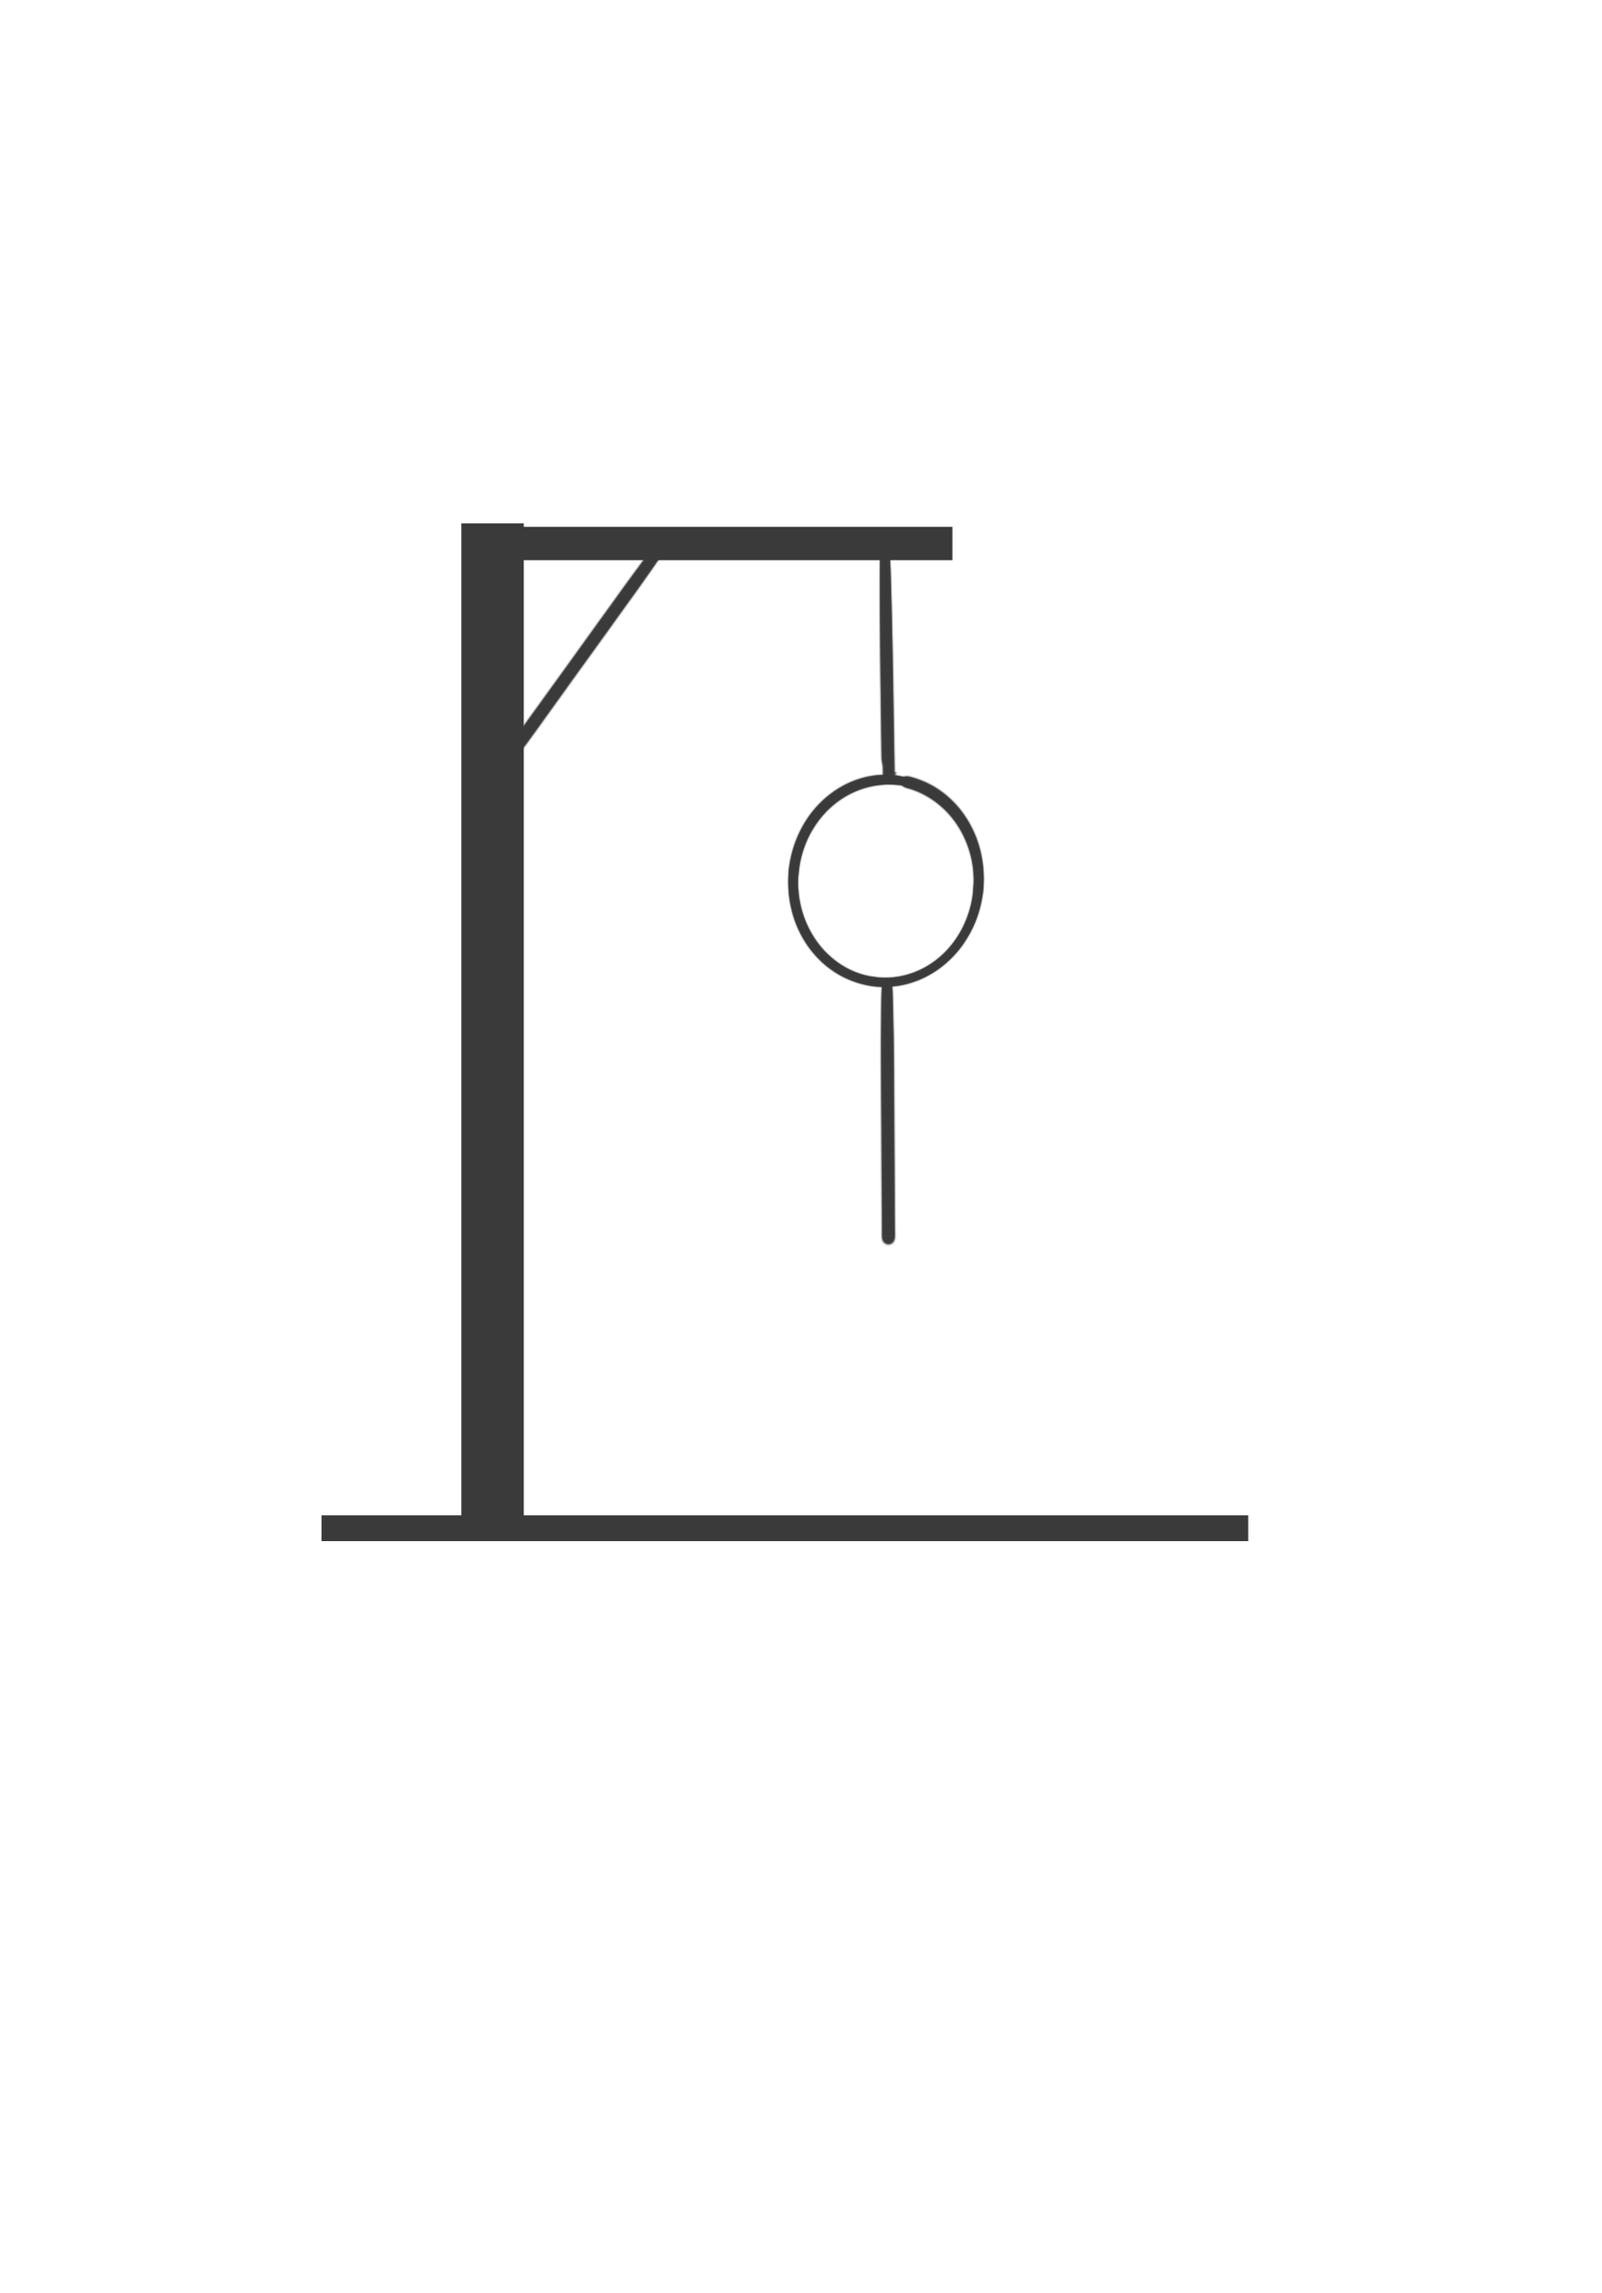
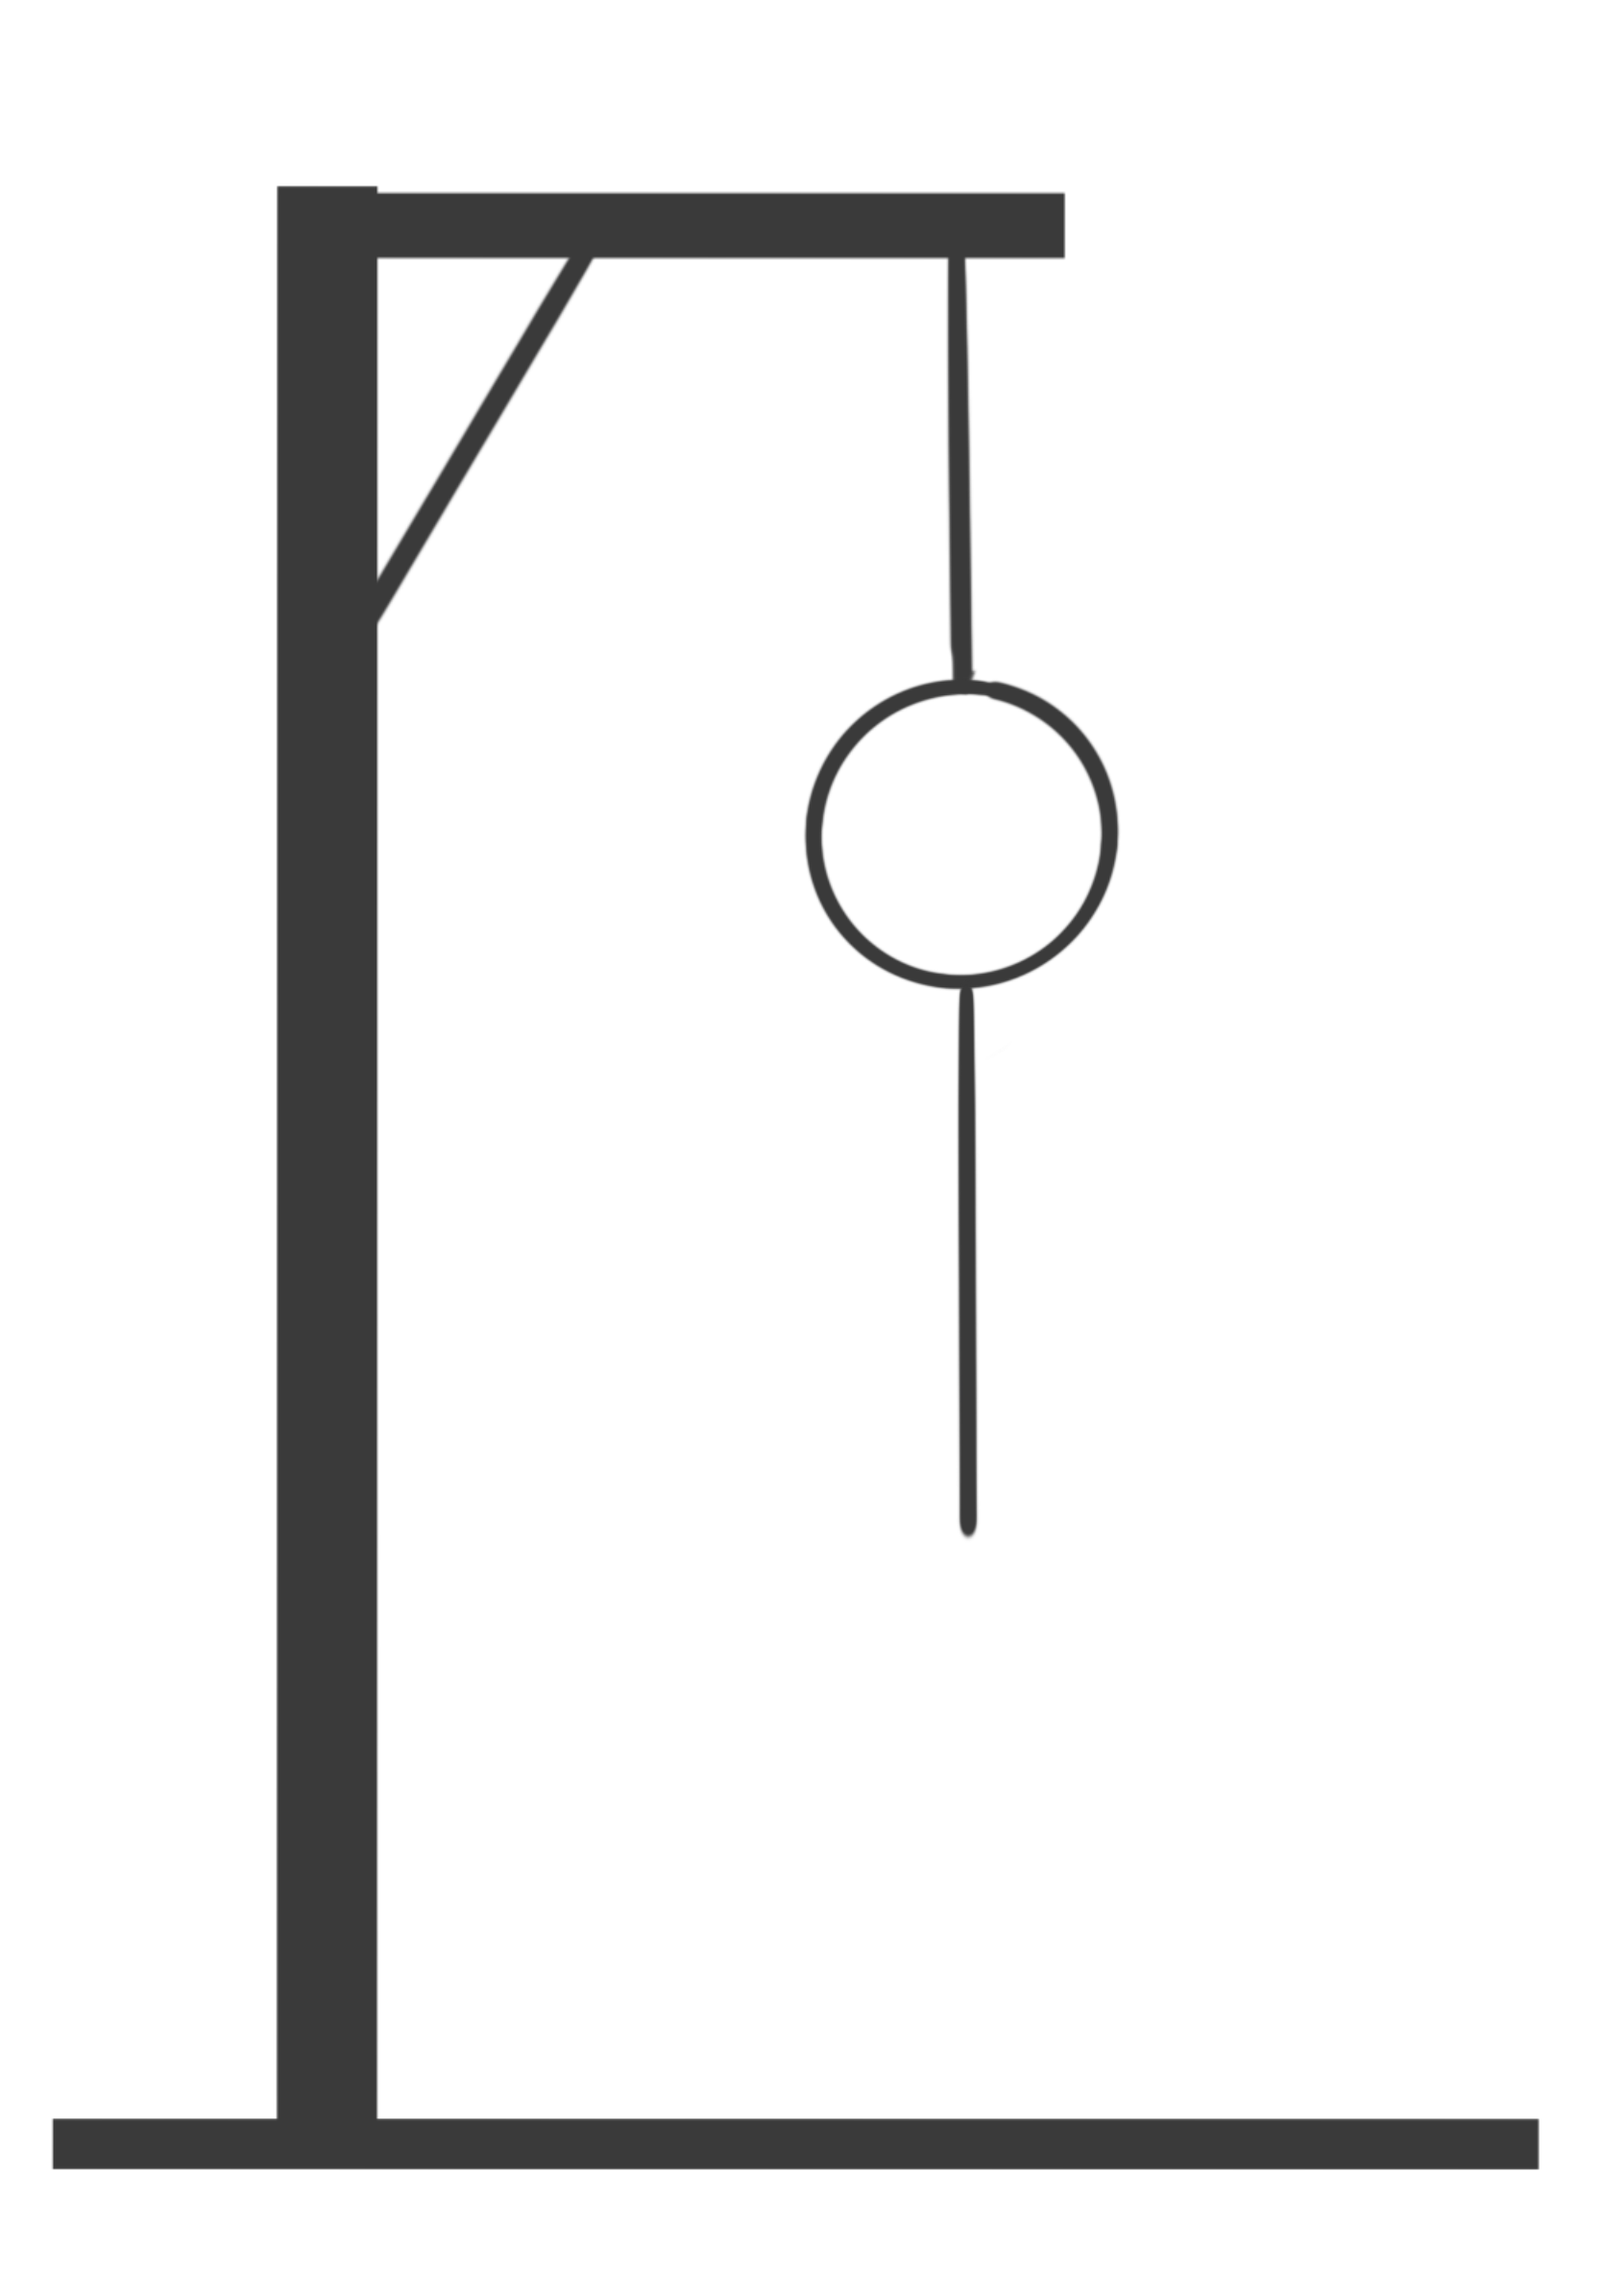
commit

Changed region(s): [[0.0312, 0.062, 0.9664, 0.9606], [0.6547, 0.3099, 0.6859, 0.3409]]

diff --git a/main.js b/main.js
@@ -1,10 +1,10 @@
 const pokemon = [
     "MILOTIC",
-    "TINKATON",
+    // "TINKATON",
     // "VOLCARONA",
     // "GENGAR",
     // "AERODACTYL",
-    // "CRADILY",
+    "CRADILY",
     // "WEEZING"
 ]
 
@@ -12,7 +12,15 @@ const letters = document.querySelectorAll("button");
 
 let randomPokemon = [];
 let answerPokemon = [];
-let mistakes = null;
+let mistakes = 0;
+
+function initialize() {
+    pokemonToGuess();
+    gameLoop();
+    
+    }
+    
+initialize();
 
 function pokemonToGuess() {
 randomPokemon = pokemon[Math.floor(Math.random() * pokemon.length)];
@@ -27,8 +35,8 @@ console.log(answerPokemon);
 //set the indexes of the answer to be "_"
 }
 
-pokemonToGuess();
-// function getLetter() {
+
+function gameLoop() {
 letters.forEach(letter => {
     letter.addEventListener("click", () => {
         console.log(letter)      
@@ -54,24 +62,19 @@ letters.forEach(letter => {
     })
     
 })
-// }
+}
 
-
-// function initialize() {
-// pokemonToGuess();
-
-// }
-
-//to disable the button on click, I need eventlistener to select it 
 function disable(letter) {
     let buttons = document.getElementById(letter);
     for(let a = 0; a < randomPokemon.length; a++){
         if(randomPokemon[a] === letter) {
-          
             buttons.disabled = true;  
+            buttons.style.background = "#AEFD9D";            
+       } else if (randomPokemon[a] !== letter) {
+        buttons.disabled = true; 
+        buttons.style.color = "gray"; 
        }
-          
-    }    
+    }
 }
 
 
@@ -84,7 +87,6 @@ function checkLoose (letter) {
     
     mistakes ++; 
      console.log(mistakes);
-    //  changeMan();
     if (mistakes === 1) {
         document.getElementById("man").src="/images/Untitled-Artwork 2.png";
     }
@@ -109,6 +111,8 @@ function checkLoose (letter) {
         document.getElementById("man").src="/images/Untitled-Artwork 7.png";
         document.getElementById("pokemonName").innerHTML = "The answer was: " + randomPokemon;
         document.getElementById("gameStatus").innerHTML = "You Lost!";
+        disableAllButtons();
+       
     } 
 }   
 
@@ -116,58 +120,39 @@ function checkWin() {
     let x = answerPokemon.join('');
         if (x === randomPokemon) {
             document.getElementById("gameStatus").innerHTML = 'You Won!!!'
+            document.getElementById("pokemonName").innerHTML = "The answer was: " + randomPokemon;   
+            disableAllButtons();
         }  
 }
 
-// initialize();
+function enableButtons() {
+    let buton = document.getElementsByClassName("button");
+    for (let c = 0; c < buton.length; c++) {
+        buton[c].disabled =false;
+        buton[c].style.background = "white";  
+        buton[c].style.color = "#444"; 
+}
+}
+
+function disableAllButtons() {
+    let buuton = document.getElementsByClassName("button");
+    for (let d = 0; d < buuton.length; d++) {
+        buuton[d].disabled =true;
+        buuton[d].style.color = "gray"; 
+    }    
+}
+
 
 restartButton.addEventListener("click", restart);
 
 function restart() {
-    document.getElementById("man").src="/images/Untitled-Artwork 1.png";
-    pokemonToGuess();
-    mistakes = null;
+    initialize();
+    
+    enableButtons();
+    document.getElementById("man").src="/images/Untitled-Artwork 1.png";    
+    mistakes = 0;
     document.getElementById("gameStatus").innerHTML = "";
+    
 }
 
-    
 
-
-
-
-
-
-
-
-    
-
-
-
-
-
-// function checkIfGameWon() {
-//     if (guessedPokemon === correctPokemon) {
-//       document.getElementById("gameStatus").innerHTML = 'You Won!!!';
-//     }
-//   }
-  
-
-
-//   function checkIfGameLost() {
-//     if (mistakes === maxMistakes) {
-//       document.getElementById("pokemonName").innerHTML = "The answer was: " + randomPokemon;
-//       document.getElementById("gameStatus").innerHTML = "You Lost!";
-//     }
-//   }
-
-
-
-// function restart() {
-//     restartButton.addEventListener("click", restart);
-//     mistakes = 0;
-//     guessedPokemon = [];
-    
-//   }
-
-// getPokemon();  
-// checkIfGameLost();

diff --git a/index.html b/index.html
@@ -13,15 +13,13 @@
   <body>
     <div id="gameBody">
       <h1 id="title">[ HANGMAN ]</h1>
-    <!-- <div class ="image"></div> -->
-    <image id = "man" src="/images/Untitled-Artwork 1.png"></image>
-    <div>
+    <div id="guess">
       <h2 id="guessPokemon">Who's that Pokemon?</h2>
       <p id="pokemonName">Pokemon to be guessed</p>
-    
+      <p id="gameStatus"></p>   
     </div>
-
-    
+    <div id = "picBoard">
+    <image id = "man" src="/images/Untitled-Artwork 1.png"></image>
     <div id="letters" class="buttons">
         <button id="A" class = "button">A</button>
         <button id="B" class = "button">B</button> 
@@ -49,10 +47,11 @@
         <button id="X" class = "button">X</button>
         <button id="Y" class = "button">Y</button> 
         <button id="Z" class = "button">Z</button> 
-       
+       <button id = "restartButton">Restart</button>
     </div>
-    <button id = "restartButton">Restart</button>
-    <p id="gameStatus"></p>
+    </div>
+    
+    
   </div>
   <script type="module" src="main.js"></script>
   </body>

diff --git a/style.css b/style.css
@@ -3,6 +3,8 @@
   display: flex;
   justify-content: center;
   font-size: 50px;
+  margin-top: 50px;
+  
 }
 
 #letters { 
@@ -10,9 +12,13 @@
   grid-template-columns: repeat(9, auto); 
   grid-gap: 10px;
   justify-content: center;
+  
 
 }
-
+#guess{
+  margin-top: 60px;
+ text-align: center;
+}
 
 
 .button {
@@ -22,6 +28,8 @@
   height: 60px;
   font-size: 50px; 
   border-radius: 10px;
+  
+  
 }
 
 #restartButton {
@@ -32,8 +40,13 @@
 
 #man {
   display: block;
-  /* margin: -100px; */
-  width: 500px;
-  height: 500px;
+  margin-right: 150px;
+  width: 300px;
+  height: 400px;
 }
 
+#picBoard{
+  display: flex;
+  align-items: center;
+  justify-content: center;
+}
